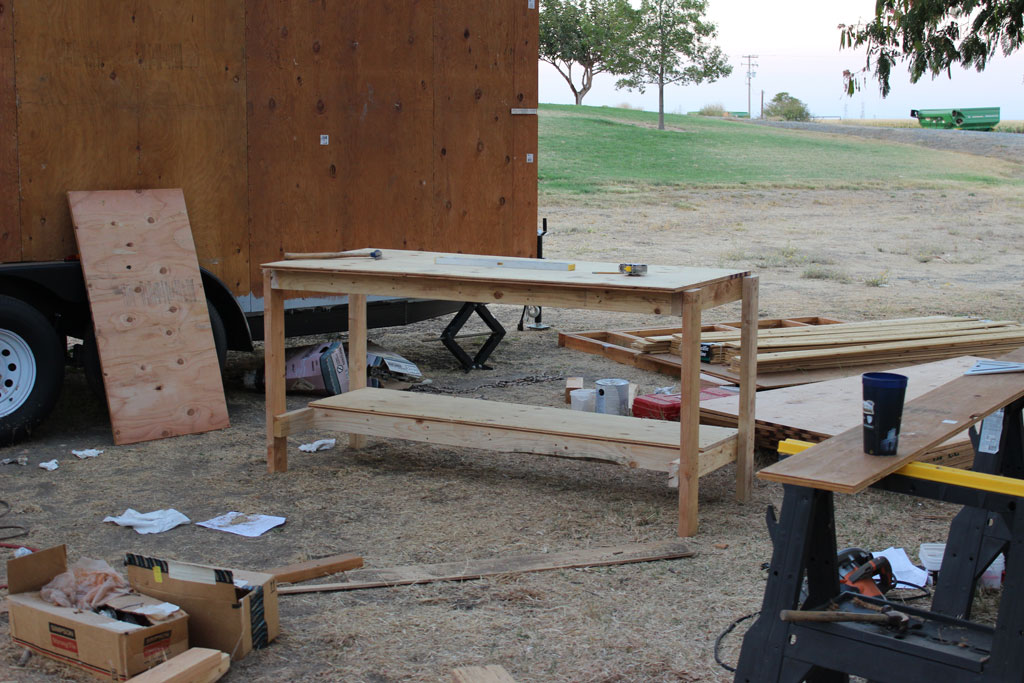
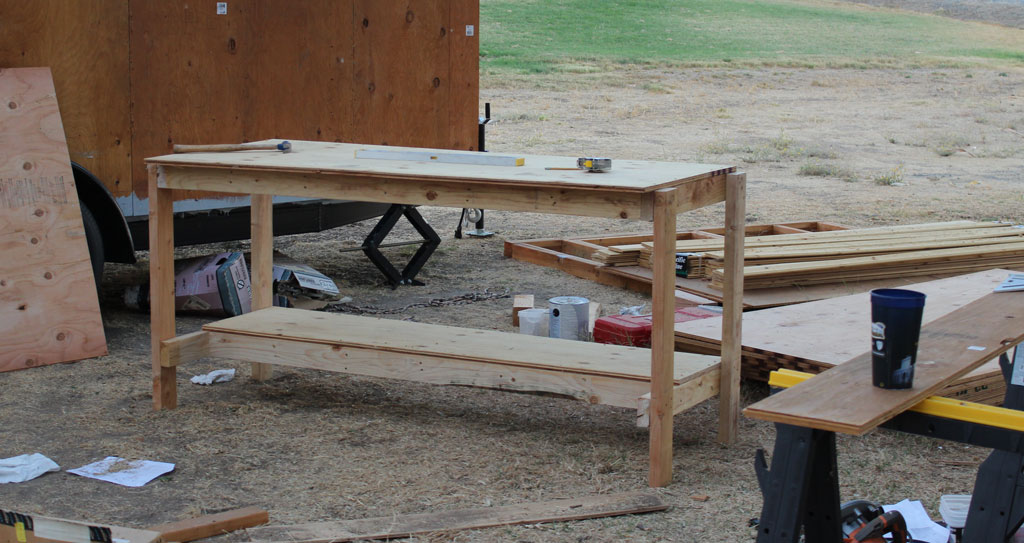
update

diff --git a/_posts/blog/2015-07-23-workbench.md b/_posts/blog/2015-07-23-workbench.md
@@ -1,0 +1,48 @@
+---
+layout: post
+title: "Built myself a workbench"
+modified:
+categories: blog
+excerpt: "In which I get a miter saw and need a place to put it"
+tags: [woodworking]
+image:
+  feature: workbench-large.jpg
+  credit: Kate Sills
+date: 2015-07-23
+---
+
+I have a huge delivery of lumber for the lofts and roof coming on Monday, so in the meantime, I bought a miter saw in order to cut the rafters, and, in the fashion of "If you give a mouse a cookie...", I had to make a workbench to go along with it. 
+
+I (mostly) followed [this tutorial](http://www.familyhandyman.com/workshop/workbench/how-to-build-a-workbench-super-simple-50-bench/view-all).
+
+<figure>
+	<img src="https://hostedmedia.reimanpub.com/TFH/Step-By-Step/display/FH09SEP_SIMWOR_02.JPG" alt="The actual design">
+	<figcaption>I took out the top shelf, because this baby's going outside, not against a wall.</figcaption>
+</figure>
+
+
+<figure>
+	<img src="{{ site.url }}/images/workbench-1.jpg" alt="Workbench">
+</figure>
+
+It was pretty easy, especially with a nailgun. The toughest things were the hundreds of mosquitos that seemed to converge last night, and trying to get the legs on it, working on uneven ground. But I think it worked out nicely!
+
+
+
+
+
+
+
+
+
+
+
+
+
+
+
+
+
+
+
+
